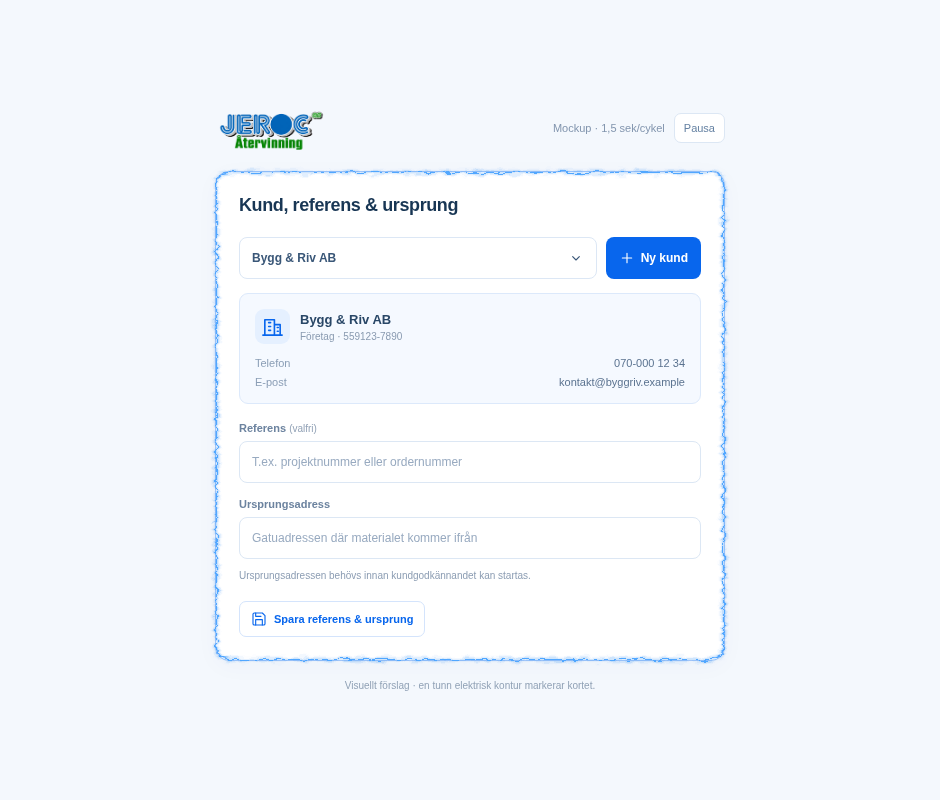
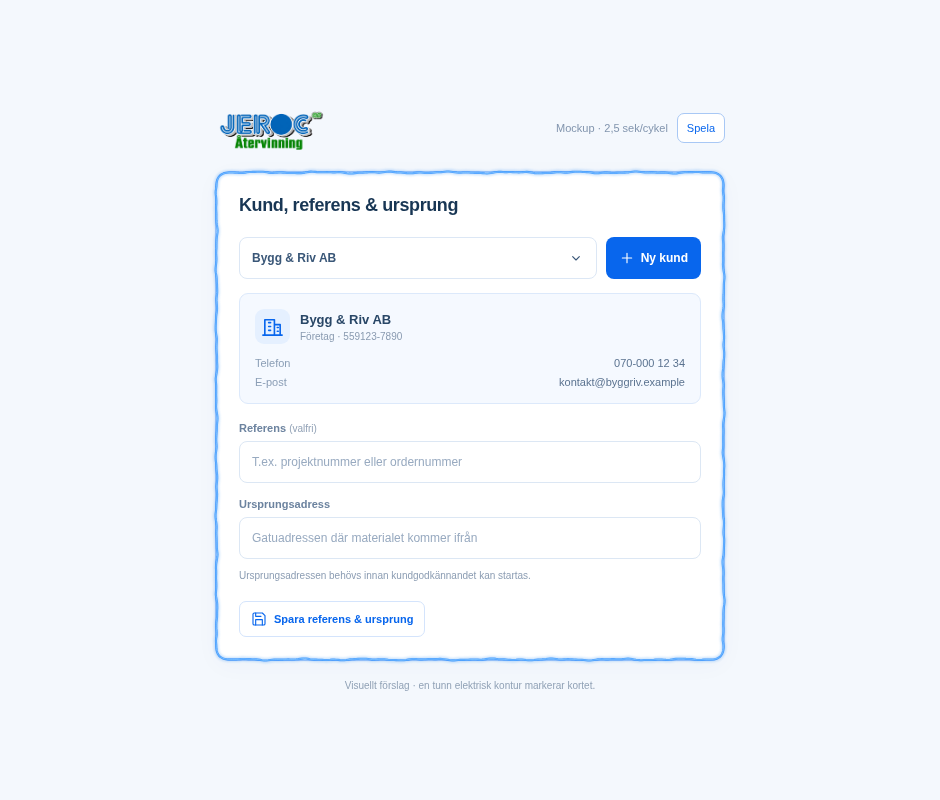
Refine electric focus mockup with connected slower contour

diff --git a/public/mockups/kortfokus-elektrisk.html b/public/mockups/kortfokus-elektrisk.html
@@ -55,7 +55,7 @@
   <main class="preview">
     <div class="preview-heading">
       <img class="logo" src="../images/jeroc-logo-v2.png" alt="JEROC Återvinning">
-      <div class="mockup-label"><span>Mockup · 1,5 sek/cykel</span><button class="pause-control" id="pause-orbit" type="button" aria-pressed="false">Pausa</button></div>
+      <div class="mockup-label"><span>Mockup · 2,5 sek/cykel</span><button class="pause-control" id="pause-orbit" type="button" aria-pressed="false">Pausa</button></div>
     </div>
     <section class="card" id="focus-card" aria-labelledby="card-title">
       <h1 id="card-title">Kund, referens &amp; ursprung</h1>
@@ -73,20 +73,14 @@
       <button class="save" type="button"><svg class="ui-icon" aria-hidden="true" viewBox="0 0 24 24"><path d="M19 21H5a2 2 0 0 1-2-2V5a2 2 0 0 1 2-2h12l4 4v12a2 2 0 0 1-2 2Z"/><path d="M17 21v-8H7v8M7 3v5h8"/></svg>Spara referens &amp; ursprung</button>
       <svg id="electric-border" aria-hidden="true" viewBox="0 0 510 458">
         <defs>
-          <filter id="electric-noise" x="-8%" y="-8%" width="116%" height="116%" color-interpolation-filters="sRGB">
-            <feTurbulence type="fractalNoise" baseFrequency=".095 .22" numOctaves="2" seed="7" result="noise">
-              <animate attributeName="baseFrequency" dur="1.5s" repeatCount="indefinite" values=".095 .22;.14 .29;.085 .18;.125 .25;.095 .22"/>
-            </feTurbulence>
-            <feDisplacementMap in="SourceGraphic" in2="noise" scale="8" xChannelSelector="R" yChannelSelector="G"/>
-          </filter>
-          <filter id="electric-glow" x="-8%" y="-8%" width="116%" height="116%"><feGaussianBlur stdDeviation="1.7"/></filter>
+          <filter id="electric-glow" x="-8%" y="-8%" width="116%" height="116%"><feGaussianBlur stdDeviation="1.2"/></filter>
         </defs>
-        <g filter="url(#electric-noise)">
-          <path id="electric-glow-path" fill="none" stroke="#278af2" stroke-width="3" opacity=".37" filter="url(#electric-glow)"/>
-          <path id="electric-core-path" fill="none" stroke="#2b8cff" stroke-width="1.15"/>
-          <path id="electric-highlight-path" fill="none" stroke="#9cdfff" stroke-width=".5" opacity=".68"/>
+        <path id="electric-guide" fill="none" stroke="none"/>
+        <g stroke-linecap="round" stroke-linejoin="round">
+          <path id="electric-glow-path" fill="none" stroke="#278af2" stroke-width="4.8" opacity=".24" filter="url(#electric-glow)"/>
+          <path id="electric-core-path" fill="none" stroke="#2b8cff" stroke-width="2.1" opacity=".83"/>
+          <path id="electric-highlight-path" fill="none" stroke="#b6eaff" stroke-width=".8" opacity=".55"/>
         </g>
-        <g id="electric-sparks" fill="none" stroke="#489fff" stroke-width=".8" stroke-linecap="round" stroke-linejoin="round"/>
       </svg>
     </section>
     <p class="preview-footnote">Visuellt förslag · en tunn elektrisk kontur markerar kortet.</p>
@@ -95,11 +89,28 @@
     const card = document.getElementById('focus-card');
     const svg = document.getElementById('electric-border');
     const paths = ['electric-glow-path', 'electric-core-path', 'electric-highlight-path'].map(id => document.getElementById(id));
-    const sparks = document.getElementById('electric-sparks');
+    const guide = document.getElementById('electric-guide');
     const control = document.getElementById('pause-orbit');
     const reducedMotion = window.matchMedia('(prefers-reduced-motion: reduce)');
-    const ns = 'http://www.w3.org/2000/svg';
-    let manuallyPaused = false, dimensions = '';
+    const cycleSeconds = 2.5, tau = Math.PI * 2;
+    let manuallyPaused = false, dimensions = '', samples = [];
+    let elapsed = 0, previousFrame = null;
+    const playbackPaused = () => reducedMotion.matches || manuallyPaused;
+    const triangle = angle => Math.asin(Math.sin(angle)) * 2 / Math.PI;
+    function renderElectricBorder(seconds) {
+      const phase = seconds / cycleSeconds * tau;
+      // Every wave uses an integer number of periods around the same closed
+      // outline. The join and all corners stay connected as the texture travels.
+      const points = samples.map(({ x, y, nx, ny, position, cornerDamping }) => {
+        const roughness = Math.sin(position * tau * 31 - phase * 2) * .55
+          + triangle(position * tau * 73 - phase * 3) * .4
+          + Math.sin(position * tau * 127 - phase * 5) * .18;
+        const offset = roughness * cornerDamping;
+        return `${(x + nx * offset).toFixed(2)} ${(y + ny * offset).toFixed(2)}`;
+      });
+      const outline = `M${points.join('L')}Z`;
+      paths.forEach(path => path.setAttribute('d', outline));
+    }
     function resizeElectricBorder() {
       const width = card.clientWidth, height = card.clientHeight, edge = .5, radius = 13;
       const key = `${width}/${height}`;
@@ -108,31 +119,25 @@
       const right = width - edge, bottom = height - edge;
       svg.setAttribute('viewBox', `0 0 ${width} ${height}`);
       const outline = `M${radius} ${edge}H${right-radius}Q${right} ${edge} ${right} ${radius}V${bottom-radius}Q${right} ${bottom} ${right-radius} ${bottom}H${radius}Q${edge} ${bottom} ${edge} ${bottom-radius}V${radius}Q${edge} ${edge} ${radius} ${edge}Z`;
-      paths.forEach(path => path.setAttribute('d', outline));
-      sparks.replaceChildren();
-      // Small irregular branches; each flashes briefly on its own schedule.
-      for (let index = 0; index < 16; index++) {
-        const side = index % 4, fraction = .15 + ((index * 37) % 71) / 100;
-        const x = side === 1 ? right : side === 3 ? edge : radius + fraction * (width - 2 * radius);
-        const y = side === 0 ? edge : side === 2 ? bottom : radius + fraction * (height - 2 * radius);
-        const nx = side === 1 ? 1 : side === 3 ? -1 : 0, ny = side === 0 ? -1 : side === 2 ? 1 : 0;
-        const tangent = index % 2 ? 1 : -1;
-        const branch = document.createElementNS(ns, 'path');
-        branch.setAttribute('d', `M${x} ${y}l${nx*2.5+ny*tangent} ${ny*2.5+nx*tangent}l${nx*1.8-ny*tangent*2} ${ny*1.8-nx*tangent*2}`);
-        branch.setAttribute('opacity', '0');
-        const flash = document.createElementNS(ns, 'animate');
-        const start = .04 + ((index * 29) % 78) / 100;
-        flash.setAttribute('attributeName', 'opacity');
-        flash.setAttribute('dur', '1.5s');
-        flash.setAttribute('repeatCount', 'indefinite');
-        flash.setAttribute('values', '0;0;.85;0;0');
-        flash.setAttribute('keyTimes', `0;${start.toFixed(3)};${(start+.018).toFixed(3)};${(start+.085).toFixed(3)};1`);
-        branch.append(flash); sparks.append(branch);
-      }
+      guide.setAttribute('d', outline);
+      const length = guide.getTotalLength(), count = Math.ceil(length / 2);
+      samples = Array.from({ length: count }, (_, index) => {
+        const distance = index / count * length;
+        const point = guide.getPointAtLength(distance);
+        const before = guide.getPointAtLength((distance - .5 + length) % length);
+        const after = guide.getPointAtLength((distance + .5) % length);
+        const dx = after.x - before.x, dy = after.y - before.y, magnitude = Math.hypot(dx, dy);
+        const cornerDistance = Math.max(Math.min(point.x, right - point.x), Math.min(point.y, bottom - point.y));
+        const blend = Math.min(1, Math.max(0, (cornerDistance - radius) / 8));
+        const cornerDamping = .25 + .75 * blend * blend * (3 - 2 * blend);
+        return { x: point.x, y: point.y, nx: dy / magnitude, ny: -dx / magnitude,
+          position: index / count, cornerDamping };
+      });
+      renderElectricBorder(elapsed);
     }
     function syncPlayback() {
-      const paused = reducedMotion.matches || manuallyPaused;
-      if (paused) svg.pauseAnimations(); else svg.unpauseAnimations();
+      const paused = playbackPaused();
+      previousFrame = null;
       control.setAttribute('aria-pressed', String(paused));
       control.textContent = paused ? 'Spela' : 'Pausa';
       control.disabled = reducedMotion.matches;
@@ -142,8 +147,23 @@
     reducedMotion.addEventListener('change', syncPlayback);
     resizeElectricBorder();
     new ResizeObserver(resizeElectricBorder).observe(card);
-    svg.setCurrentTime(0);
     syncPlayback();
+    // A deterministic preview clock also lets the exported GIF show one exact
+    // cycle, without changing the card or moving the whole SVG filter region.
+    window.electricPreview = {
+      seek(seconds) { elapsed = seconds; renderElectricBorder(seconds); },
+      get currentTime() { return elapsed; },
+      get paused() { return playbackPaused(); },
+    };
+    function animate(timestamp) {
+      if (!playbackPaused()) {
+        if (previousFrame !== null) elapsed += (timestamp - previousFrame) / 1000;
+        renderElectricBorder(elapsed);
+      }
+      previousFrame = timestamp;
+      requestAnimationFrame(animate);
+    }
+    requestAnimationFrame(animate);
   </script>
 </body>
 </html>

diff --git a/docs/mockups/kortfokus-elektrisk/README.md b/docs/mockups/kortfokus-elektrisk/README.md
@@ -1,9 +1,11 @@
 # Elektrisk kortkontur – animerad mockup
 
-Förslag 2026-10-10, efter referensen med en elektrisk kortkant: små
-oregelbundna krusningar och korta blixtgrenar längs hela konturen. JEROC-blå
-färg och diskret glöd på det befintliga vita kortet. Kortets innehåll ligger
-stilla. Rörelsen har en cykel på 1,5 sekunder och kan pausas.
+Uppdaterat förslag 2026-10-10: en sammanhängande elektrisk kontur med små
+krusningar längs kanten, lugnare hörn och svagare glöd. Alla synliga linjer
+följer samma slutna kontur; de separata blixtgrenarna är borttagna. JEROC-blå
+färg på det befintliga vita kortet, vars innehåll ligger stilla. Efter senaste
+justeringen är kanten dubbelt så tjock och hastigheten 20 % högre än
+3-sekundersförslaget: 2,5 sekunder per cykel, med möjlighet att pausa.
 
 ![Animerad förhandsvisning](Kortfokus_Elektrisk.gif)
 
@@ -17,4 +19,4 @@ eller integration används i förhandsvisningen.
 
 Kontrollerat i Chromium vid 940 och 390 pixlars bredd: ingen horisontell
 överströmning eller JavaScriptfel. Minskad rörelse pausar animationen.
-GIF-filen visar 50 bildrutor à 30 ms, totalt 1 500 ms per cykel.
+GIF-filen visar 50 bildrutor à 50 ms, totalt 2 500 ms per cykel.
